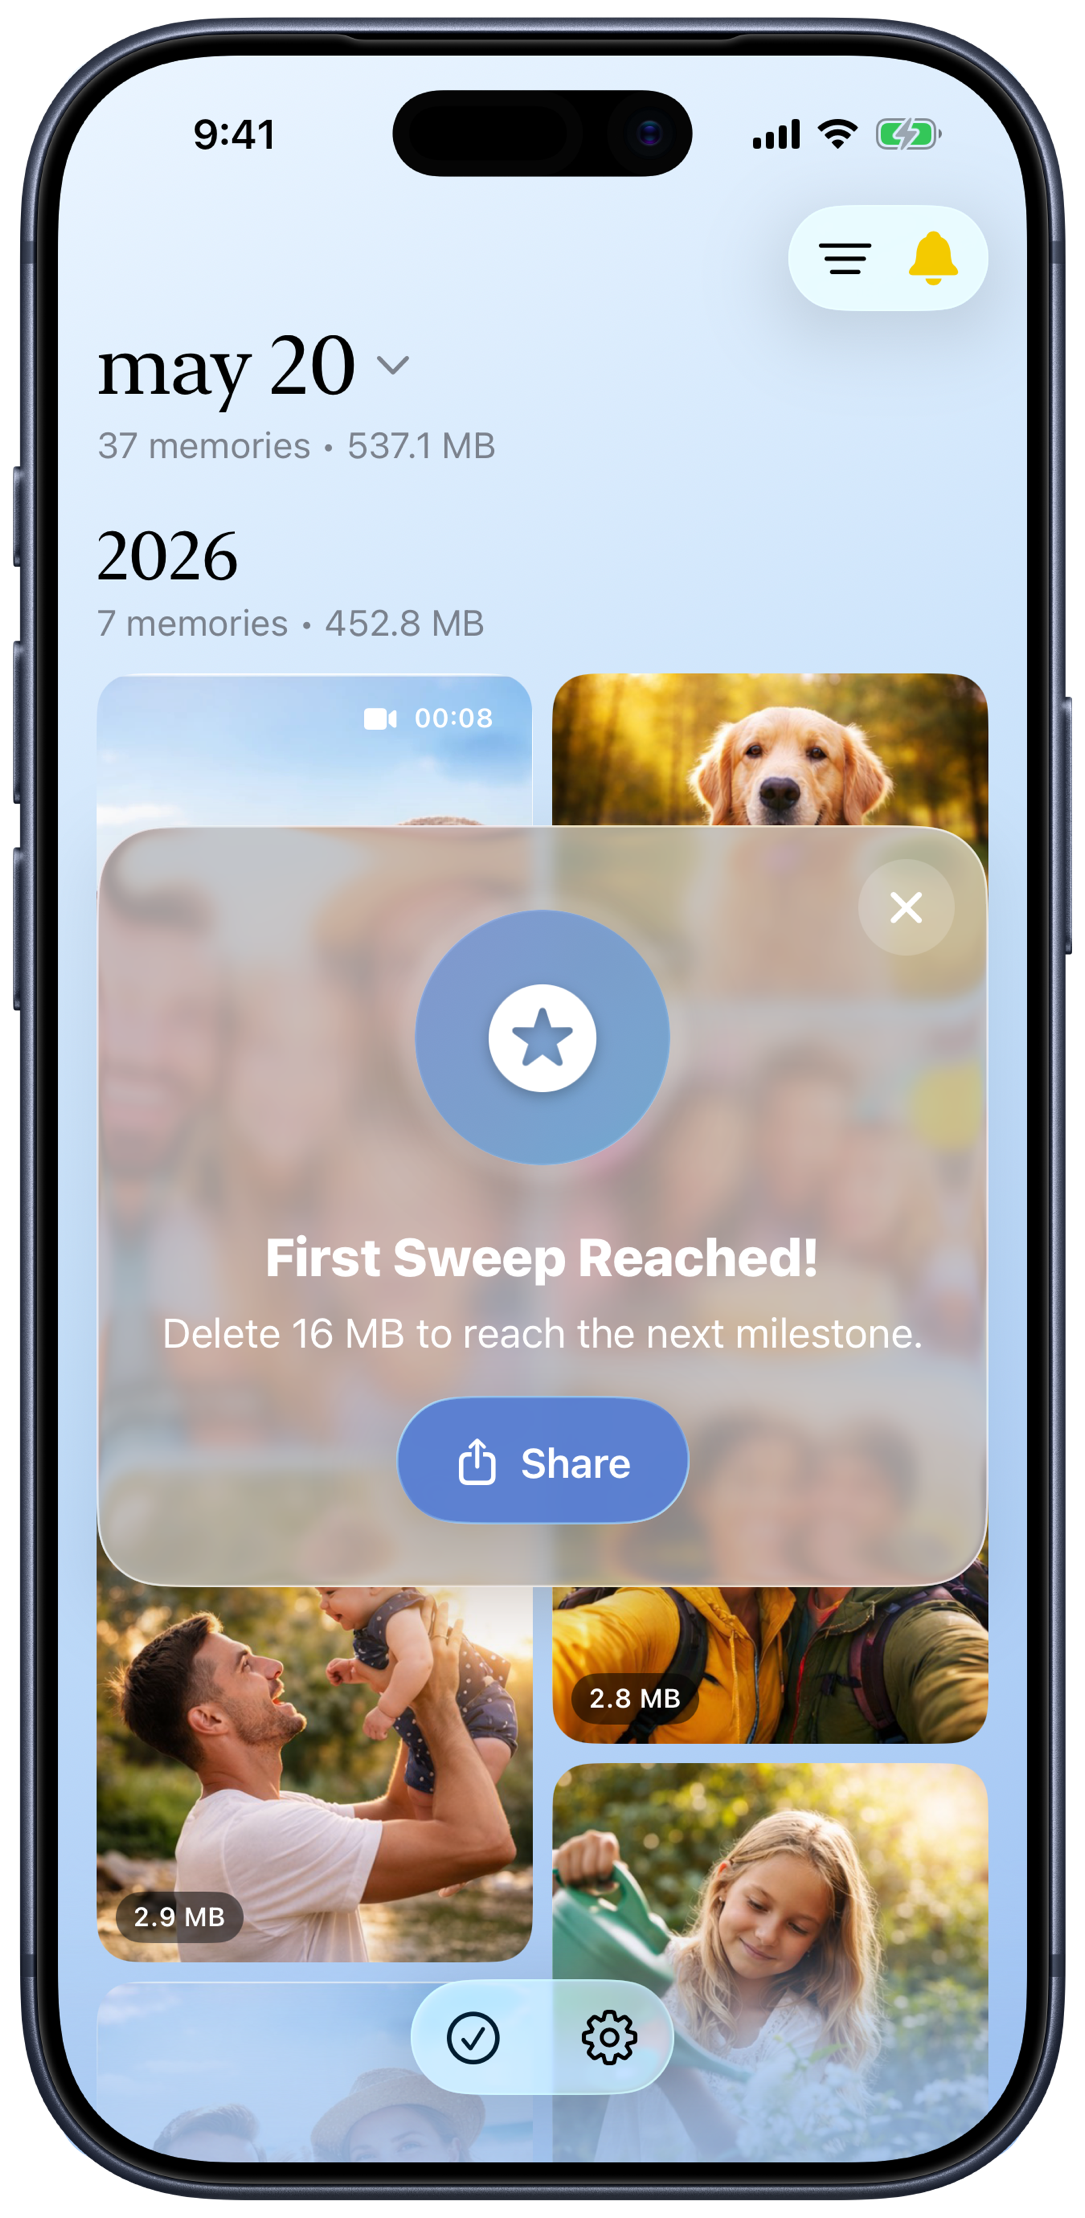
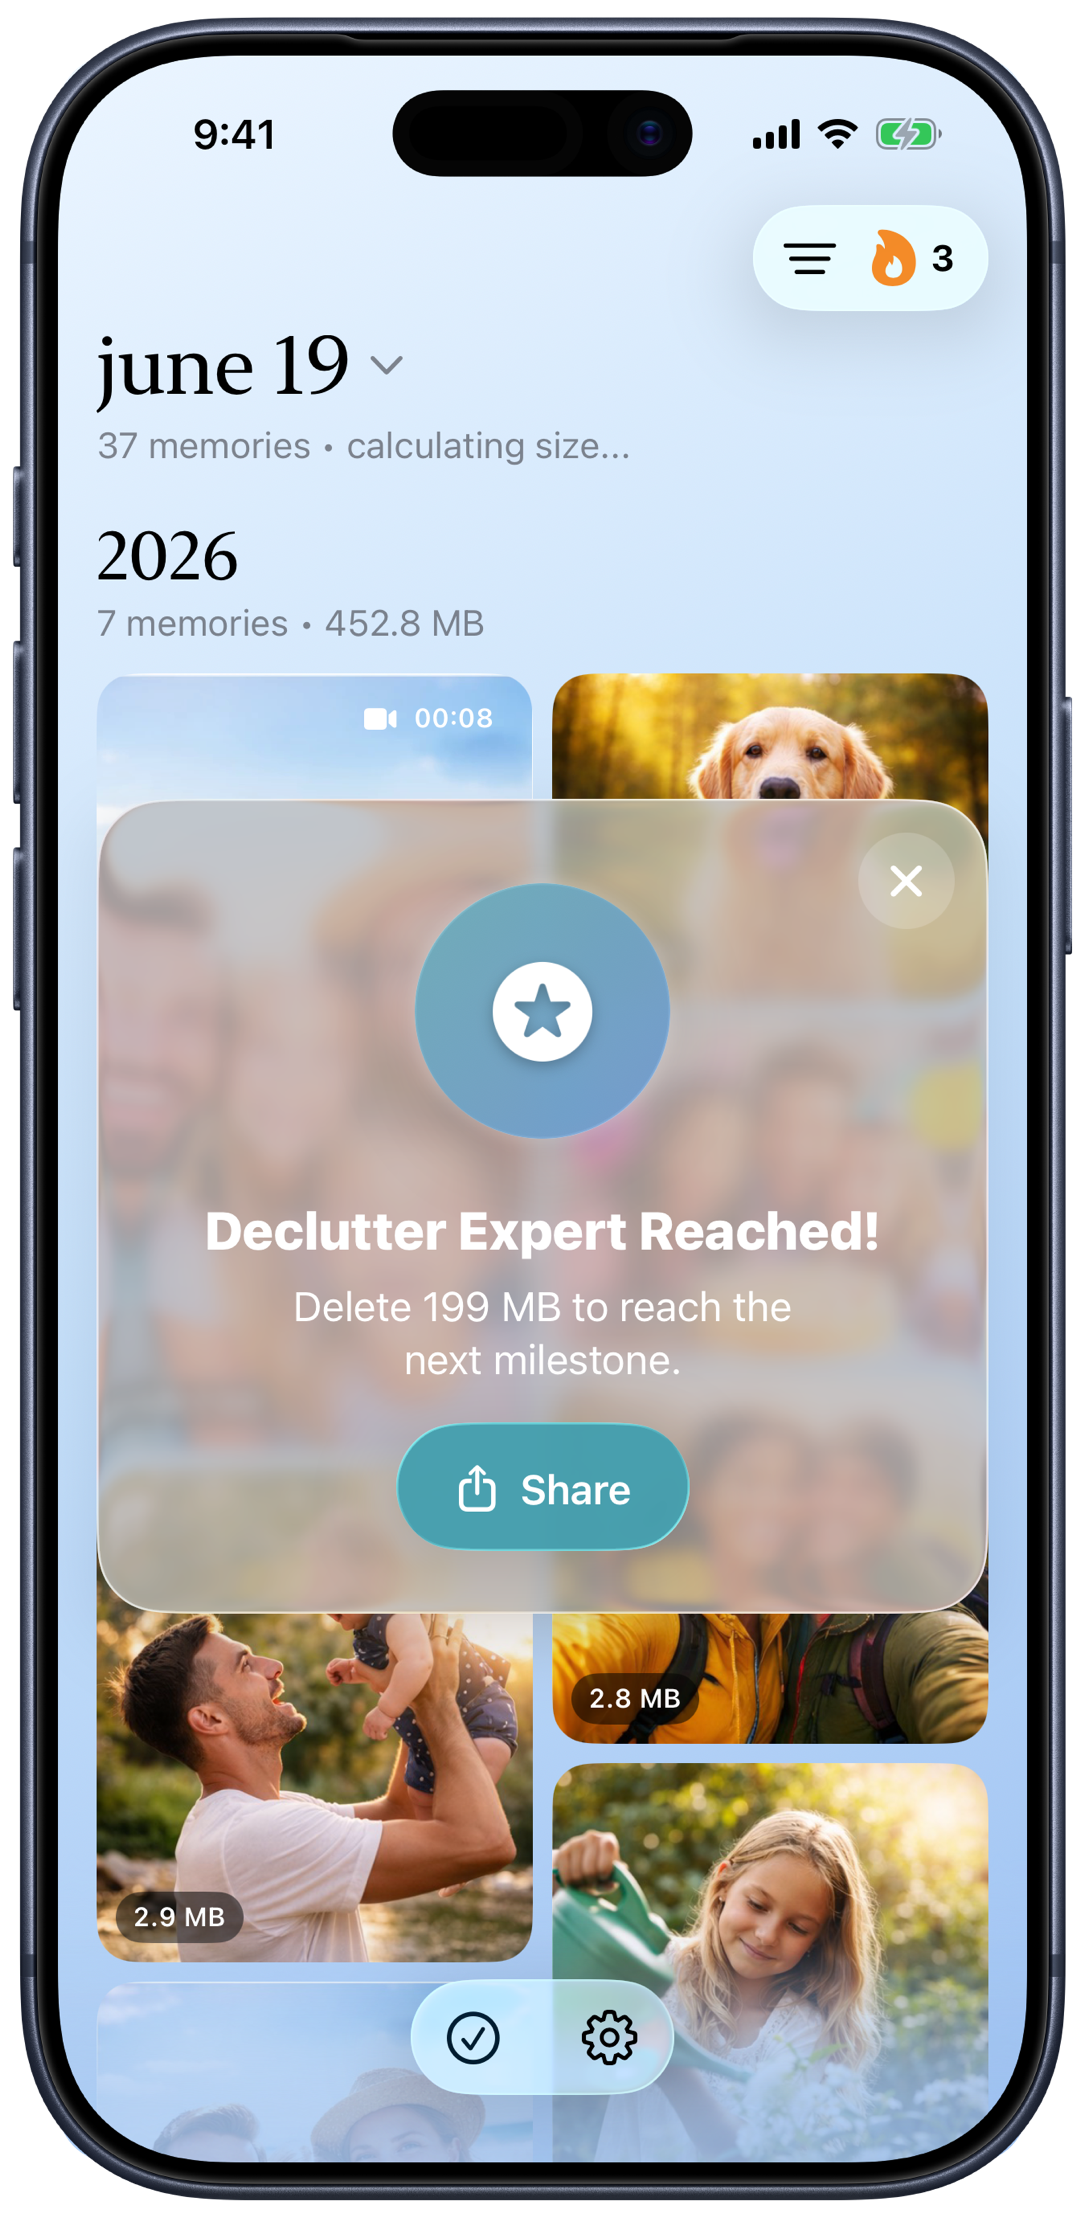
Update site for This Day v1.16

diff --git a/_includes/landing-content.html b/_includes/landing-content.html
@@ -4,7 +4,7 @@
       {% include brand.html large=true width="80" height="80" %}
       <h1>Turn decluttering into a daily habit</h1>
       <p class="hero-lead">
-        This Day shows photos and videos from this calendar day in past years—so you can review memories in small batches, free up storage, and never feel overwhelmed by your whole library.
+        This Day shows photos and videos from this calendar day in past years so you can review memories in small batches, reclaim storage, and keep a cleanup streak going.
       </p>
       <div class="hero-cta">
         <a class="app-store-badge" href="https://apps.apple.com/us/app/this-day-photo-cleaner/id6758584686" rel="noopener" aria-label="Download on the App Store">
@@ -51,7 +51,7 @@
             <img class="device-frame device-frame--feature" src="{{ '/assets/images/devices/feature-duplicates.png' | relative_url }}" alt="Review and delete exact duplicate photos" width="405" height="828">
           </figure>
           <figure class="feature-slide" data-feature-visual-slide>
-            <img class="device-frame device-frame--feature" src="{{ '/assets/images/devices/feature-reminders.png' | relative_url }}" alt="Daily reminder settings in This Day" width="405" height="828">
+            <img class="device-frame device-frame--feature" src="{{ '/assets/images/devices/feature-achievements.png' | relative_url }}" alt="Achievements sheet showing current streak and progress toward the next milestone" width="405" height="828">
           </figure>
           <figure class="feature-slide" data-feature-visual-slide>
             <img class="device-frame device-frame--feature" src="{{ '/assets/images/devices/feature-milestones.png' | relative_url }}" alt="Storage milestones and achievements" width="405" height="828">
@@ -72,7 +72,7 @@
           <button type="button" class="feature-dot is-active" data-feature-dot role="tab" aria-selected="true" aria-label="Convert Live Photos"></button>
           <button type="button" class="feature-dot" data-feature-dot role="tab" aria-selected="false" aria-label="One day at a time"></button>
           <button type="button" class="feature-dot" data-feature-dot role="tab" aria-selected="false" aria-label="Delete duplicates"></button>
-          <button type="button" class="feature-dot" data-feature-dot role="tab" aria-selected="false" aria-label="Daily reminders"></button>
+          <button type="button" class="feature-dot" data-feature-dot role="tab" aria-selected="false" aria-label="Streak achievements"></button>
           <button type="button" class="feature-dot" data-feature-dot role="tab" aria-selected="false" aria-label="Achieve milestones"></button>
           <button type="button" class="feature-dot" data-feature-dot role="tab" aria-selected="false" aria-label="Relive memories"></button>
         </div>
@@ -102,18 +102,18 @@
           </article>
           <article class="feature-panel" data-feature-copy-slide>
             <p class="feature-kicker">Stay on track</p>
-            <h3>Daily reminders</h3>
-            <p>Schedule a gentle nudge at the time that works for you and build a cleanup streak.</p>
+            <h3>Build a cleanup streak</h3>
+            <p>Open Achievements from the gallery to see your current streak, personal best, weekly progress, reminders, and next cleanup tier.</p>
           </article>
           <article class="feature-panel" data-feature-copy-slide>
             <p class="feature-kicker">Motivation</p>
             <h3>Achieve milestones</h3>
-            <p>Celebrate storage you have reclaimed with progress milestones that make habit-building satisfying.</p>
+            <p>Celebrate storage you have reclaimed, share milestone wins, and keep cleanup tiers alongside your streak progress.</p>
           </article>
           <article class="feature-panel" data-feature-copy-slide>
             <p class="feature-kicker">Your library</p>
             <h3>Relive memories</h3>
-            <p>Keep the photos that matter, share favorites through the iOS share sheet, and delete only when you confirm.</p>
+            <p>Keep the photos that matter, share favorites through the iOS share sheet, add selected memories to Photos albums, and delete only when you confirm.</p>
           </article>
         </div>
       </div>
@@ -144,7 +144,7 @@
           </li>
           <li>
             <span class="premium-check" aria-hidden="true">✓</span>
-            <span><strong>Filter by more options</strong> — narrow results (e.g., video only) to focus each session.</span>
+            <span><strong>Filter by more options</strong> — narrow results to photos, videos, or screenshots to focus each session.</span>
           </li>
           <li>
             <span class="premium-check" aria-hidden="true">✓</span>

diff --git a/scripts/prepare-assets.swift b/scripts/prepare-assets.swift
@@ -26,8 +26,19 @@ func checkoutURL(environmentKey: String, siblingName: String) -> URL {
 let thisdayRoot = checkoutURL(environmentKey: "THISDAY_APP_ROOT", siblingName: "thisday")
 let slidesToolRoot = checkoutURL(environmentKey: "APP_STORE_SLIDES_TOOL_ROOT", siblingName: "app-store-slides-tool")
 
+let screenshotVersion = ProcessInfo.processInfo.environment["THISDAY_SCREENSHOT_VERSION"] ?? "v1.16.0"
+let screenshotDevice = ProcessInfo.processInfo.environment["THISDAY_SCREENSHOT_DEVICE"] ?? "iphone"
+let screenshotLocale = ProcessInfo.processInfo.environment["THISDAY_SCREENSHOT_LOCALE"] ?? "en_US"
+let framedOutputWidth = CGFloat(
+    Double(ProcessInfo.processInfo.environment["THISDAY_FRAMED_OUTPUT_WIDTH"] ?? "1085") ?? 1085
+)
+
 let rawScreenshotRoot = thisdayRoot
-    .appendingPathComponent("build/AppStore/v1.10.1/en_US/iphone/raw")
+    .appendingPathComponent("build/AppStore")
+    .appendingPathComponent(screenshotVersion)
+    .appendingPathComponent(screenshotDevice)
+    .appendingPathComponent(screenshotLocale)
+    .appendingPathComponent("raw")
 let assetsRoot = projectRoot.appendingPathComponent("assets/images")
 let devicesRoot = assetsRoot.appendingPathComponent("devices")
 
@@ -110,6 +121,49 @@ func compositeDevice(screenshot: NSImage, frame: NSImage, config: FrameConfig) t
     return output
 }
 
+func resizedImage(_ image: NSImage, maxPixelWidth: CGFloat) throws -> NSImage {
+    guard maxPixelWidth > 0, image.size.width > maxPixelWidth else {
+        return image
+    }
+
+    let scale = maxPixelWidth / image.size.width
+    let targetSize = NSSize(
+        width: maxPixelWidth.rounded(),
+        height: (image.size.height * scale).rounded()
+    )
+
+    guard let bitmap = NSBitmapImageRep(
+        bitmapDataPlanes: nil,
+        pixelsWide: Int(targetSize.width),
+        pixelsHigh: Int(targetSize.height),
+        bitsPerSample: 8,
+        samplesPerPixel: 4,
+        hasAlpha: true,
+        isPlanar: false,
+        colorSpaceName: .deviceRGB,
+        bytesPerRow: 0,
+        bitsPerPixel: 0
+    ), let context = NSGraphicsContext(bitmapImageRep: bitmap) else {
+        throw NSError(domain: "prepare-assets", code: 6, userInfo: [NSLocalizedDescriptionKey: "Resize bitmap allocation failed"])
+    }
+
+    let previous = NSGraphicsContext.current
+    NSGraphicsContext.current = context
+    defer {
+        context.flushGraphics()
+        NSGraphicsContext.current = previous
+    }
+
+    context.imageInterpolation = .high
+    NSColor.clear.setFill()
+    NSRect(origin: .zero, size: targetSize).fill()
+    image.draw(in: NSRect(origin: .zero, size: targetSize), from: .zero, operation: .sourceOver, fraction: 1)
+
+    let output = NSImage(size: targetSize)
+    output.addRepresentation(bitmap)
+    return output
+}
+
 func makeIconTransparent(source: URL, destination: URL) throws {
     let image = try loadImage(source.path)
     let width = Int(image.size.width.rounded())
@@ -169,8 +223,9 @@ func writeFramedScreenshot(at screenshotURL: URL, outputName: String) throws {
     let screenshot = try loadImage(screenshotURL.path)
     let frame = try loadImage(iphoneFrame.imagePath)
     let composite = try compositeDevice(screenshot: screenshot, frame: frame, config: iphoneFrame)
+    let output = try resizedImage(composite, maxPixelWidth: framedOutputWidth)
     let outputURL = devicesRoot.appendingPathComponent(outputName)
-    try pngData(from: composite).write(to: outputURL, options: .atomic)
+    try pngData(from: output).write(to: outputURL, options: .atomic)
     print("Wrote \(outputURL.path)")
 }
 
@@ -185,12 +240,13 @@ do {
         ("01-gallery-multiselect.png", "feature-daily-review.png"),
         ("02-live-photos-convert.png", "feature-live-photos.png"),
         ("03-duplicates-review.png", "feature-duplicates.png"),
-        ("04-settings-daily-reminders.png", "feature-reminders.png"),
+        ("04-achievements.png", "feature-achievements.png"),
+        ("04-achievements.png", "feature-reminders.png"),
         ("05-achieve-milestones.png", "feature-milestones.png"),
         ("06-relive-memories.png", "feature-memories.png"),
         ("01-gallery-multiselect.png", "how-open-memories.png"),
         ("03-duplicates-review.png", "how-review-delete.png"),
-        ("04-settings-daily-reminders.png", "how-daily-habit.png")
+        ("04-achievements.png", "how-daily-habit.png")
     ]
 
     for (raw, output) in framed {

diff --git a/privacy.md b/privacy.md
@@ -5,7 +5,7 @@ description: Privacy Policy for This Day, the iOS photo cleanup app. What data w
 permalink: /privacy/
 ---
 
-Last updated: March 11, 2026
+Last updated: June 20, 2026
 
 This Day ("we", "us", or "our") helps you review photos and videos from prior years so you can clean up storage in small daily batches.
 
@@ -25,7 +25,9 @@ If you grant Photos permission, This Day accesses your Photos library on your de
 - Show thumbnails and details so you can review content
 - Detect exact duplicates within surfaced results
 - Delete items only when you explicitly choose delete actions
+- Convert Live Photos to still photos only when you explicitly choose conversion actions
 - Export selected items to the iOS share sheet when you explicitly choose share actions
+- Add selected items to an editable Photos album when you explicitly choose the Add to Album share action
 
 We do not require account creation to use the app.
 
@@ -39,11 +41,11 @@ If you view, purchase, restore, or manage a subscription, Apple handles payment 
 
 We use RevenueCat to help provide subscription functionality. RevenueCat may process limited subscription-related and technical data such as product identifiers, entitlement or subscription status, transaction status, and an anonymous app user identifier generated by the SDK.
 
-### d) Analytics
+### d) Analytics and crash diagnostics
 
-This Day uses Firebase Analytics to understand app usage and improve the product. Analytics events may include app screens viewed and in-app actions such as reminder interactions, duplicate detection and review usage, and cleanup progress events.
+This Day uses Firebase Analytics to understand app usage and improve the product. Analytics events may include app screens viewed and in-app actions such as reminder interactions, duplicate detection and review usage, Live Photo conversion, Add to Album share actions, Achievements and streak activity, premium paywall interactions, and cleanup progress events.
 
-Firebase Analytics may also process related app instance and device data needed to provide analytics services.
+This Day also uses Firebase Crashlytics to help diagnose crashes and stability issues. Firebase may process related app instance, device, crash, and diagnostic data needed to provide these services.
 
 ### e) Local app preferences and progress
 
@@ -51,7 +53,7 @@ This Day stores app settings and progress locally on your device, including valu
 
 - Years to show
 - Sort and appearance preferences
-- Streak and milestone progress
+- Streak, Achievements, and milestone progress
 - Total deleted storage counter
 
 ### f) Feedback email
@@ -63,8 +65,8 @@ If you use "Send Feedback," your mail app opens a draft addressed to us. Any inf
 We use accessed or stored information only to provide and improve core app functionality, including:
 
 - Showing relevant daily memories
-- Enabling deletion and sharing actions you request
-- Providing reminders and streak/milestone progress
+- Enabling deletion, Live Photo conversion, album, and sharing actions you request
+- Providing reminders and streak, Achievements, and milestone progress
 - Processing subscriptions and restoring premium access
 - Understanding product usage and improving the app
 - Responding to support or feedback emails
@@ -81,7 +83,7 @@ We share limited information with service providers only as needed to operate th
 
 - Apple, for App Store purchases, subscription billing, notifications, and platform services
 - RevenueCat, for subscription validation, entitlement status, and subscription management support
-- Google Firebase, for product analytics
+- Google Firebase, for product analytics and crash diagnostics
 
 Data may also leave your device when you explicitly choose to share content via iOS sharing destinations, or when Apple processes device-level services you use (for example, iCloud Photos).
 

diff --git a/terms.md b/terms.md
@@ -7,13 +7,13 @@ redirect_from:
   - /terms.html
 ---
 
-Last updated: March 11, 2026
+Last updated: June 20, 2026
 
 These Terms of Use govern your use of the This Day iOS app and related services provided by Raymond Kim ("we", "us", or "our"). By using This Day, you agree to these Terms of Use.
 
 ## 1. The App
 
-This Day helps you review photos and videos from prior years and decide what to keep or delete from your Photos library.
+This Day helps you review photos and videos from prior years and decide what to keep, delete, convert, share, or add to albums in your Photos library.
 
 ## 2. Subscriptions
 
@@ -31,7 +31,7 @@ Premium features remain available only while your subscription is active. We may
 
 ## 4. User Responsibility
 
-You are responsible for reviewing photos and videos before deleting them. Deletion actions may affect your Photos library, device storage, or iCloud Photos account. You are responsible for maintaining any backups you want to keep.
+You are responsible for reviewing photos and videos before deleting, converting, sharing, or adding them to albums. Actions you take in This Day may affect your Photos library, device storage, albums, or iCloud Photos account. You are responsible for maintaining any backups you want to keep.
 
 ## 5. Privacy
 

diff --git a/README.md b/README.md
@@ -33,17 +33,20 @@ The server auto-rebuilds when you save files. Stop it with `Ctrl+C` in the termi
 
 ### Regenerate screenshots
 
-Framed iPhone 17 Pro screenshots are generated from the This Day app repo:
+Framed iPhone 17 Pro screenshots are generated from the This Day app repo. By default, the script uses `build/AppStore/v1.16.0/iphone/en_US/raw` and emits 1085px-wide site assets:
 
 ```bash
 ./scripts/prepare-assets.swift
 ```
 
-By default, the script looks for sibling checkouts at `../thisday` and `../app-store-slides-tool`. Override those paths when needed:
+The script looks for sibling checkouts at `../thisday` and `../app-store-slides-tool`. Override those paths, or the screenshot source, when needed:
 
 ```bash
 THISDAY_APP_ROOT=/path/to/thisday \
 APP_STORE_SLIDES_TOOL_ROOT=/path/to/app-store-slides-tool \
+THISDAY_SCREENSHOT_VERSION=v1.16.0 \
+THISDAY_SCREENSHOT_DEVICE=iphone \
+THISDAY_SCREENSHOT_LOCALE=en_US \
 ./scripts/prepare-assets.swift
 ```
 

diff --git a/index.md b/index.md
@@ -1,7 +1,7 @@
 ---
 layout: landing
 title: This Day — Daily Photo Cleanup for iPhone
-description: Review photos from this day in past years and free up iPhone storage in minutes. Delete duplicates, convert Live Photos, and make cleanup a simple daily habit.
+description: Review photos from this day in past years and free up iPhone storage in minutes. Delete duplicates, convert Live Photos, add memories to albums, and build a cleanup streak.
 permalink: /
 ---
 
